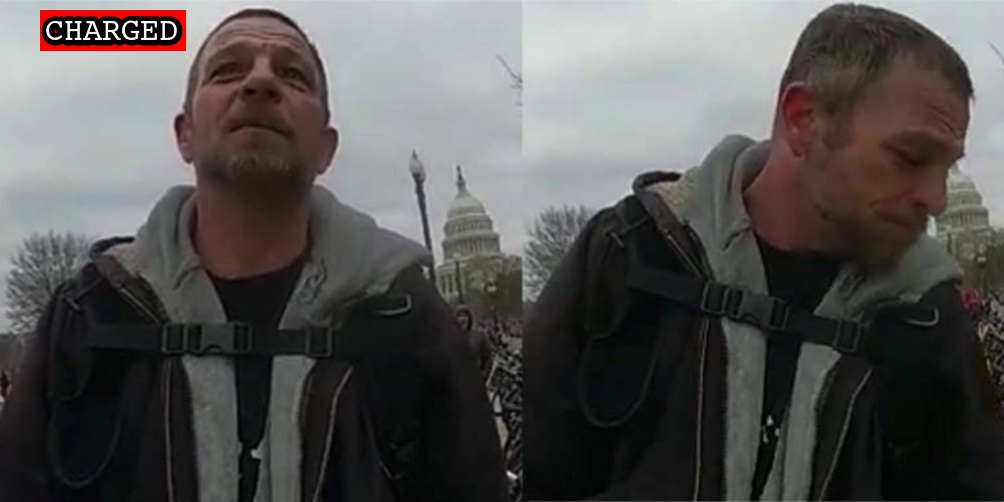
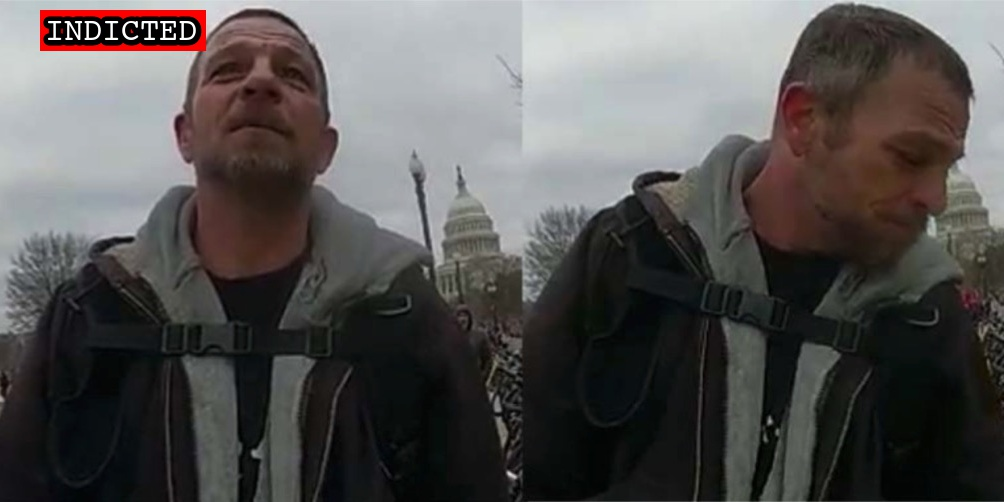
Latest import

Changed region(s): [[0.0309, 0.0, 0.2161, 0.1195]]

diff --git a/docs/_suspects/leticia-ferreira.md b/docs/_suspects/leticia-ferreira.md
@@ -1,0 +1,42 @@
+---
+name: Leticia Ferreira
+lastName: Ferreira
+hashtag:
+aka:
+residence: Illinois
+status: Charged
+date: 2022-02-14
+charged: 2022-02-14
+indicted:
+convicted:
+sentenced:
+dismissed:
+deceased:
+plea_hearing:
+sentencing:
+age:
+occupation:
+affiliations:
+jurisdiction: Federal
+image: /images/preview/leticia-ferreira.jpg
+suspect: leticia-ferreira.jpg
+booking:
+courtroom:
+courthouse:
+raid:
+perpwalk:
+quote:
+title: Leticia Ferreira charged on February 14th, 2022
+description: Click for latest case details. Suspects innocent until proven guilty.
+author: seditiontrack
+layout: suspect
+published: false
+caseNumber: 1:22-mj-27
+videos:
+charges:
+sentence:
+---
+
+- [News Report]()
+- [Complaint](https://www.justice.gov/usao-dc/case-multi-defendant/file/1473451/download)
+- [Statement of Facts](https://www.justice.gov/usao-dc/case-multi-defendant/file/1473456/download)

diff --git a/docs/_suspects/shelly-stallings.md b/docs/_suspects/shelly-stallings.md
@@ -1,0 +1,41 @@
+---
+name: Shelly Stallings
+lastName: Stallings
+hashtag: GreenPlaidLady
+aka: Shelly Schwartz
+residence: Kentucky
+status: Indicted
+date: 2022-02-09
+charged: 2022-02-09
+indicted: 2022-02-09
+convicted:
+sentenced:
+dismissed:
+deceased:
+plea_hearing:
+sentencing:
+age:
+occupation:
+affiliations:
+jurisdiction: Federal
+image: /images/preview/shelly-stallings.jpg
+suspect: shelly-stallings.jpg
+booking:
+courtroom:
+courthouse:
+raid:
+perpwalk:
+quote:
+title: Shelly Stallings charged on February 9th, 2022
+description: Click for latest case details. Suspects innocent until proven guilty.
+author: seditiontrack
+layout: suspect
+published: false
+caseNumber:
+videos:
+charges:
+sentence:
+---
+
+- [News Report]()
+- [Indictment](https://www.justice.gov/usao-dc/case-multi-defendant/file/1473366/download)

diff --git a/docs/_suspects/katharine-morrison.md b/docs/_suspects/katharine-morrison.md
@@ -1,0 +1,41 @@
+---
+name: Katharine Morrison
+lastName: Morrison
+hashtag:
+aka:
+residence:
+status: Indicted
+date: 2022-02-02
+charged: 2022-02-02
+indicted: 2022-02-02
+convicted:
+sentenced:
+dismissed:
+deceased:
+plea_hearing:
+sentencing:
+age:
+occupation:
+affiliations:
+jurisdiction: Federal
+image: /images/preview/katharine-morrison.jpg
+suspect: katharine-morrison.jpg
+booking:
+courtroom:
+courthouse:
+raid:
+perpwalk:
+quote:
+title: Katharine Morrison charged on February 2nd, 2022
+description: Click for latest case details. Suspects innocent until proven guilty.
+author: seditiontrack
+layout: suspect
+published: false
+caseNumber: 1:21-cr-334
+videos:
+charges:
+sentence:
+---
+
+- [News Report]()
+- [Indictment](https://www.justice.gov/usao-dc/case-multi-defendant/file/1473421/download)

diff --git a/docs/_suspects/reva-vincent.md b/docs/_suspects/reva-vincent.md
@@ -1,0 +1,41 @@
+---
+name: Reva Vincent
+lastName: Vincent
+hashtag:
+aka:
+residence: Kentucky
+status: Charged
+date: 2022-02-14
+charged: 2022-02-14
+indicted:
+convicted:
+sentenced:
+dismissed:
+deceased:
+plea_hearing:
+sentencing:
+age:
+occupation:
+affiliations:
+jurisdiction: Federal
+image: /images/preview/reva-vincent.jpg
+suspect: reva-vincent.jpg
+booking:
+courtroom:
+courthouse:
+raid:
+perpwalk:
+quote:
+title: Reva Vincent charged on February 14, 2022
+description: Click for latest case details. Suspects innocent until proven guilty.
+author: seditiontrack
+layout: suspect
+published: false
+caseNumber:
+videos:
+charges:
+sentence:
+---
+
+- [News Report]()
+- [Information](https://extremism.gwu.edu/sites/g/files/zaxdzs2191/f/Reva%20Vincent%20Information.pdf)
